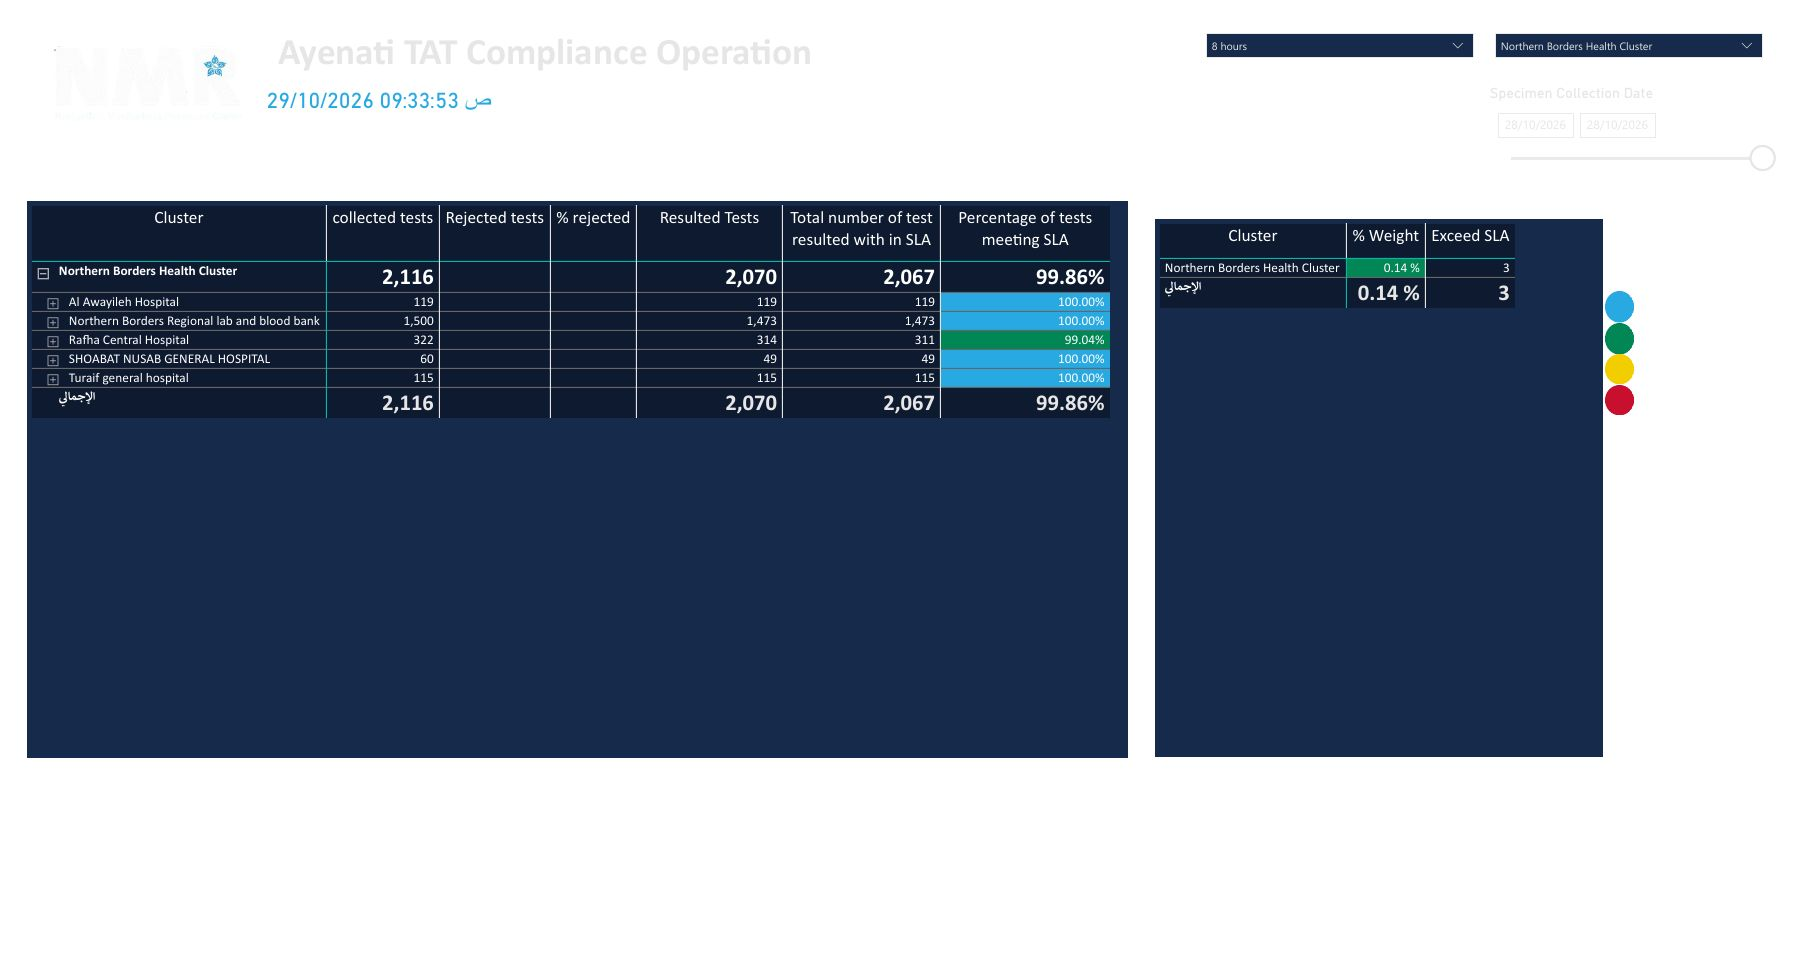
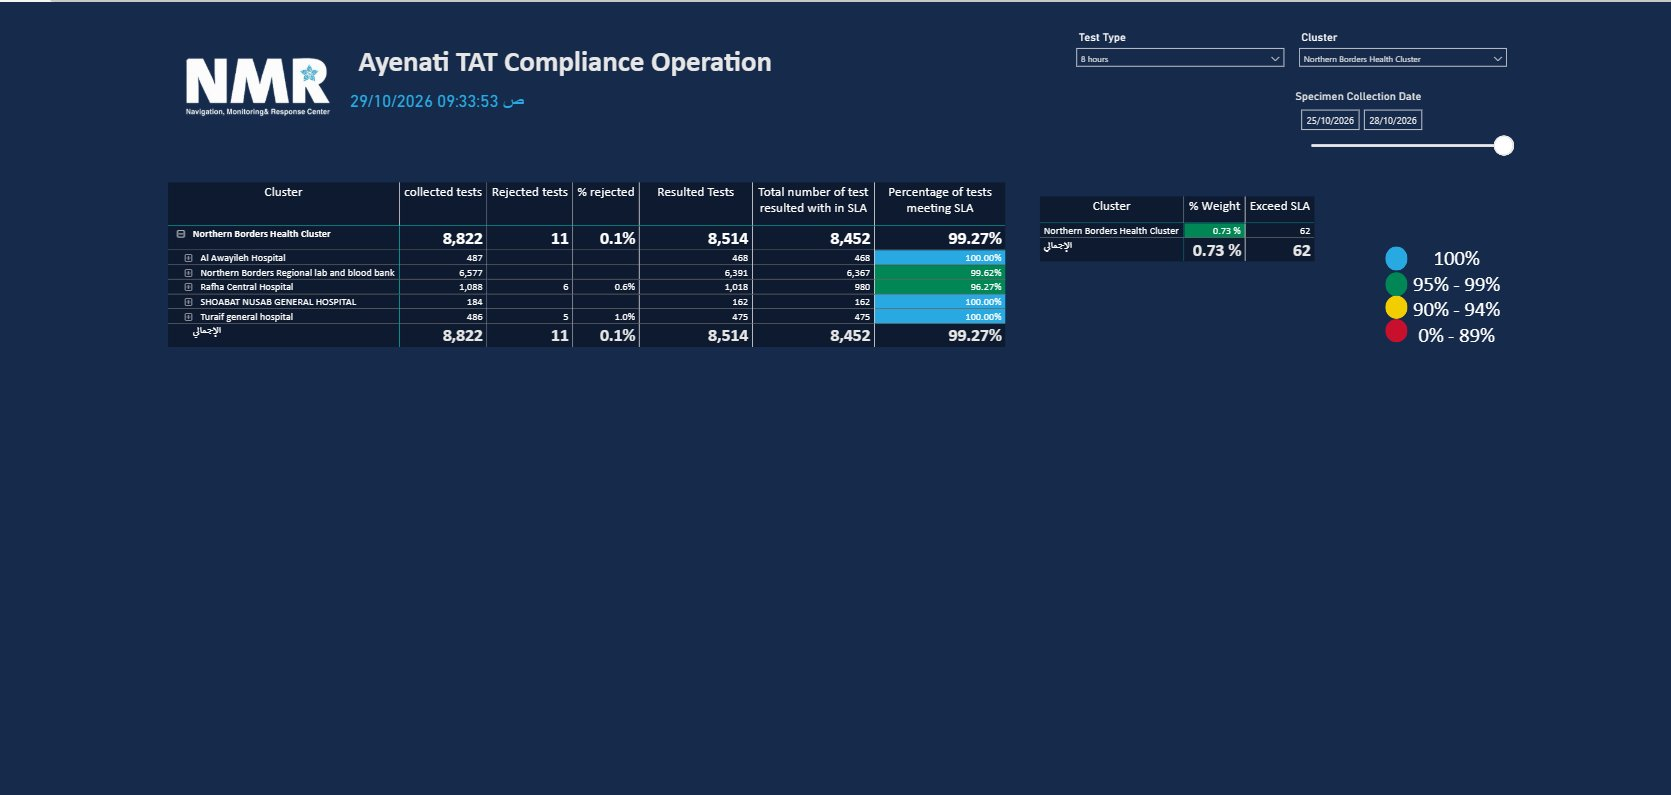
Ayenati: update to 25–28 Oct 2026 figures and refreshed report pages
Claude-Session: https://claude.ai/code/session_01Ga2zzVLDSwLrDu5nEND6nm

diff --git a/archive.html b/archive.html
@@ -2193,20 +2193,7 @@ function openNutritionMagazine(){
 }
 
 /* Labs: Ayenati (NMR) results & TAT compliance report — 8-hour tests, Northern Borders cluster */
-const AYENATI = {"asOf":"29 أكتوبر 2026","pdf":"reports/ayenati-2026-10-29.pdf",
- "pages":["images/ayenati-2026-10-29/p-1.jpg","images/ayenati-2026-10-29/p-2.jpg","images/ayenati-2026-10-29/p-3.jpg","images/ayenati-2026-10-29/p-4.jpg","images/ayenati-2026-10-29/p-5.jpg","images/ayenati-2026-10-29/p-6.jpg","images/ayenati-2026-10-29/p-7.jpg"],
- "pageTitles":["الامتثال في إصدار النتائج","الالتزام بوقت الإنجاز (TAT)","رحلة العينة بالتفصيل","اكتمال بيانات المراحل","فحوصات بدون نتائج","مستوى عمليات المختبرات (المملكة)","الإدخال اليدوي للنتائج"],
- "gauges":[{"l":"نسبة الفحوصات التي صدرت نتائجها","sub":"النتائج ÷ العينات المسحوبة","v":97.2},
-   {"l":"نتائج صدرت ضمن الوقت المستهدف (SLA)","sub":"ضمن SLA ÷ النتائج","v":98.9},
-   {"l":"نتائج وصلت لتطبيق صحتي","sub":"في صحتي ÷ النتائج","v":100}],
- "gDate":"27 أكتوبر 2026",
- "tat":{"date":"28 أكتوبر 2026","collected":2116,"resulted":2070,"inSla":2067,"rate":99.86,"over":3,
-  "rows":[{"f":"المختبر الإقليمي وبنك الدم","c":1500,"r":1473,"s":1473,"v":100},{"f":"مستشفى رفحاء العام","c":322,"r":314,"s":311,"v":99.04},
-   {"f":"مستشفى العويقيلة العام","c":119,"r":119,"s":119,"v":100},{"f":"مستشفى طريف العام","c":115,"r":115,"s":115,"v":100},{"f":"مستشفى الشعبة العام","c":60,"r":49,"s":49,"v":100}]},
- "journey":{"date":"25 – 28 أكتوبر 2026","collected":8822,"resulted":8525,"rate":96.6,"sehhaty":100,"avgTat":4.5,
-  "rows":[{"f":"المختبر الإقليمي وبنك الدم","c":6577,"r":6391,"v":97.2,"t":4},{"f":"مستشفى رفحاء العام","c":1088,"r":1024,"v":94.1,"t":5},
-   {"f":"مستشفى العويقيلة العام","c":487,"r":468,"v":96.1,"t":3},{"f":"مستشفى طريف العام","c":486,"r":480,"v":98.8,"t":4},{"f":"مستشفى الشعبة العام","c":184,"r":162,"v":88.0,"t":2}]},
- "noResult":{"total":46,"of":2116,"phc":33,"lab":13}};
+const AYENATI = {"asOf": "29 أكتوبر 2026", "pdf": "reports/ayenati-2026-10-29.pdf", "pages": ["images/ayenati-2026-10-29/p-1.jpg?v=2", "images/ayenati-2026-10-29/p-2.jpg?v=2", "images/ayenati-2026-10-29/p-3.jpg?v=2", "images/ayenati-2026-10-29/p-4.jpg?v=2", "images/ayenati-2026-10-29/p-5.jpg?v=2", "images/ayenati-2026-10-29/p-6.jpg", "images/ayenati-2026-10-29/p-7.jpg"], "pageTitles": ["الامتثال في إصدار النتائج", "الالتزام بوقت الإنجاز (TAT)", "رحلة العينة بالتفصيل", "اكتمال بيانات المراحل", "فحوصات بدون نتائج", "مستوى عمليات المختبرات (المملكة)", "الإدخال اليدوي للنتائج"], "gauges": [{"l": "نسبة الفحوصات التي صدرت نتائجها", "sub": "النتائج ÷ العينات المسحوبة", "v": 96.6}, {"l": "نتائج صدرت ضمن الوقت المستهدف (SLA)", "sub": "ضمن SLA ÷ النتائج", "v": 99.3}, {"l": "نتائج وصلت لتطبيق صحتي", "sub": "في صحتي ÷ النتائج", "v": 100}], "gDate": "25 – 28 أكتوبر 2026", "tat": {"date": "25 – 28 أكتوبر 2026", "collected": 8822, "rejected": 11, "resulted": 8514, "inSla": 8452, "rate": 99.27, "over": 62, "rows": [{"f": "المختبر الإقليمي وبنك الدم", "c": 6577, "r": 6391, "s": 6367, "v": 99.62}, {"f": "مستشفى رفحاء العام", "c": 1088, "r": 1018, "s": 980, "v": 96.27, "rej": 6}, {"f": "مستشفى العويقيلة العام", "c": 487, "r": 468, "s": 468, "v": 100}, {"f": "مستشفى طريف العام", "c": 486, "r": 475, "s": 475, "v": 100, "rej": 5}, {"f": "مستشفى الشعبة العام", "c": 184, "r": 162, "s": 162, "v": 100}]}, "journey": {"date": "24 – 28 أكتوبر 2026", "collected": 8822, "resulted": 8525, "rate": 96.6, "sehhaty": 100, "avgTat": 4.5, "rows": [{"f": "المختبر الإقليمي وبنك الدم", "c": 6577, "r": 6391, "v": 97.2, "t": 4}, {"f": "مستشفى رفحاء العام", "c": 1088, "r": 1024, "v": 94.1, "t": 5}, {"f": "مستشفى العويقيلة العام", "c": 487, "r": 468, "v": 96.1, "t": 3}, {"f": "مستشفى طريف العام", "c": 486, "r": 480, "v": 98.8, "t": 4}, {"f": "مستشفى الشعبة العام", "c": 184, "r": 162, "v": 88.0, "t": 2}]}, "noResult": {"total": 46, "of": 2116, "phc": 33, "lab": 13, "date": "28 أكتوبر 2026"}};
 
 function renderAyenatiCard(deptId){
   const a = AYENATI;
@@ -2225,20 +2212,20 @@ function renderAyenatiCard(deptId){
       <h3>${iconBadge("🧪","badge-blue")} مؤشرات منصة عيّناتي — فحوصات الـ8 ساعات</h3>
       <p class="ay-sub">تقرير منصة عيّناتي (NMR) لتجمع الحدود الشمالية الصحي · تاريخ التقرير: ${escapeHtml(a.asOf)}</p>
       <div class="ay-gauges">${a.gauges.map(gauge).join('')}</div>
-      <div class="ay-cap">نتائج يوم ${escapeHtml(a.gDate)}</div>
+      <div class="ay-cap">فترة جمع العينات: ${escapeHtml(a.gDate)}</div>
 
       <div class="ay-grid">
         <div class="ay-box">
           <div class="ay-h">⏱ الالتزام بوقت الإنجاز (SLA) <small>${escapeHtml(a.tat.date)}</small></div>
           <div class="ay-kpis">
             <div><b>${n(a.tat.collected)}</b><span>عينة مسحوبة</span></div>
-            <div><b>${n(a.tat.resulted)}</b><span>نتيجة صادرة</span></div>
+            <div><b>${n(a.tat.resulted)}</b><span>نتيجة صادرة${a.tat.rejected ? ` · ${a.tat.rejected} مرفوضة` : ''}</span></div>
             <div class="ay-hl ay-${band(a.tat.rate)}"><b>${pct(a.tat.rate)}</b><span>ضمن الوقت المستهدف</span></div>
             <div class="ay-warn"><b>${a.tat.over}</b><span>تجاوزت الوقت</span></div>
           </div>
           ${a.tat.rows.map(r => `
             <div class="ay-row ay-${band(r.v)}">
-              <span class="ay-f">${escapeHtml(r.f)}<small>${n(r.c)} عينة · ${n(r.r)} نتيجة</small></span>
+              <span class="ay-f">${escapeHtml(r.f)}<small>${n(r.c)} عينة · ${n(r.r)} نتيجة${r.rej ? ` · ${r.rej} مرفوضة` : ''}</small></span>
               <div class="ay-track"><i style="width:${r.v}%"></i></div>
               <b class="ay-v">${pct(r.v)}</b>
             </div>`).join('')}
@@ -2262,7 +2249,7 @@ function renderAyenatiCard(deptId){
 
       <div class="ay-nores">
         <span class="ay-nores-n">${a.noResult.total}</span>
-        <span>فحصًا بدون نتيجة من أصل ${n(a.noResult.of)} (${pct(Math.round(a.noResult.total / a.noResult.of * 1000) / 10)})</span>
+        <span>فحصًا بدون نتيجة${a.noResult.date ? ` (${escapeHtml(a.noResult.date)})` : ''} من أصل ${n(a.noResult.of)} (${pct(Math.round(a.noResult.total / a.noResult.of * 1000) / 10)})</span>
         <span class="ay-chip">⏳ بانتظار المراكز الصحية: ${a.noResult.phc}</span>
         <span class="ay-chip">🧪 بانتظار المختبرات: ${a.noResult.lab}</span>
       </div>

diff --git a/dept.html b/dept.html
@@ -2332,20 +2332,7 @@ function openNutritionMagazine(){
 }
 
 /* Labs: Ayenati (NMR) results & TAT compliance report — 8-hour tests, Northern Borders cluster */
-const AYENATI = {"asOf":"29 أكتوبر 2026","pdf":"reports/ayenati-2026-10-29.pdf",
- "pages":["images/ayenati-2026-10-29/p-1.jpg","images/ayenati-2026-10-29/p-2.jpg","images/ayenati-2026-10-29/p-3.jpg","images/ayenati-2026-10-29/p-4.jpg","images/ayenati-2026-10-29/p-5.jpg","images/ayenati-2026-10-29/p-6.jpg","images/ayenati-2026-10-29/p-7.jpg"],
- "pageTitles":["الامتثال في إصدار النتائج","الالتزام بوقت الإنجاز (TAT)","رحلة العينة بالتفصيل","اكتمال بيانات المراحل","فحوصات بدون نتائج","مستوى عمليات المختبرات (المملكة)","الإدخال اليدوي للنتائج"],
- "gauges":[{"l":"نسبة الفحوصات التي صدرت نتائجها","sub":"النتائج ÷ العينات المسحوبة","v":97.2},
-   {"l":"نتائج صدرت ضمن الوقت المستهدف (SLA)","sub":"ضمن SLA ÷ النتائج","v":98.9},
-   {"l":"نتائج وصلت لتطبيق صحتي","sub":"في صحتي ÷ النتائج","v":100}],
- "gDate":"27 أكتوبر 2026",
- "tat":{"date":"28 أكتوبر 2026","collected":2116,"resulted":2070,"inSla":2067,"rate":99.86,"over":3,
-  "rows":[{"f":"المختبر الإقليمي وبنك الدم","c":1500,"r":1473,"s":1473,"v":100},{"f":"مستشفى رفحاء العام","c":322,"r":314,"s":311,"v":99.04},
-   {"f":"مستشفى العويقيلة العام","c":119,"r":119,"s":119,"v":100},{"f":"مستشفى طريف العام","c":115,"r":115,"s":115,"v":100},{"f":"مستشفى الشعبة العام","c":60,"r":49,"s":49,"v":100}]},
- "journey":{"date":"25 – 28 أكتوبر 2026","collected":8822,"resulted":8525,"rate":96.6,"sehhaty":100,"avgTat":4.5,
-  "rows":[{"f":"المختبر الإقليمي وبنك الدم","c":6577,"r":6391,"v":97.2,"t":4},{"f":"مستشفى رفحاء العام","c":1088,"r":1024,"v":94.1,"t":5},
-   {"f":"مستشفى العويقيلة العام","c":487,"r":468,"v":96.1,"t":3},{"f":"مستشفى طريف العام","c":486,"r":480,"v":98.8,"t":4},{"f":"مستشفى الشعبة العام","c":184,"r":162,"v":88.0,"t":2}]},
- "noResult":{"total":46,"of":2116,"phc":33,"lab":13}};
+const AYENATI = {"asOf": "29 أكتوبر 2026", "pdf": "reports/ayenati-2026-10-29.pdf", "pages": ["images/ayenati-2026-10-29/p-1.jpg?v=2", "images/ayenati-2026-10-29/p-2.jpg?v=2", "images/ayenati-2026-10-29/p-3.jpg?v=2", "images/ayenati-2026-10-29/p-4.jpg?v=2", "images/ayenati-2026-10-29/p-5.jpg?v=2", "images/ayenati-2026-10-29/p-6.jpg", "images/ayenati-2026-10-29/p-7.jpg"], "pageTitles": ["الامتثال في إصدار النتائج", "الالتزام بوقت الإنجاز (TAT)", "رحلة العينة بالتفصيل", "اكتمال بيانات المراحل", "فحوصات بدون نتائج", "مستوى عمليات المختبرات (المملكة)", "الإدخال اليدوي للنتائج"], "gauges": [{"l": "نسبة الفحوصات التي صدرت نتائجها", "sub": "النتائج ÷ العينات المسحوبة", "v": 96.6}, {"l": "نتائج صدرت ضمن الوقت المستهدف (SLA)", "sub": "ضمن SLA ÷ النتائج", "v": 99.3}, {"l": "نتائج وصلت لتطبيق صحتي", "sub": "في صحتي ÷ النتائج", "v": 100}], "gDate": "25 – 28 أكتوبر 2026", "tat": {"date": "25 – 28 أكتوبر 2026", "collected": 8822, "rejected": 11, "resulted": 8514, "inSla": 8452, "rate": 99.27, "over": 62, "rows": [{"f": "المختبر الإقليمي وبنك الدم", "c": 6577, "r": 6391, "s": 6367, "v": 99.62}, {"f": "مستشفى رفحاء العام", "c": 1088, "r": 1018, "s": 980, "v": 96.27, "rej": 6}, {"f": "مستشفى العويقيلة العام", "c": 487, "r": 468, "s": 468, "v": 100}, {"f": "مستشفى طريف العام", "c": 486, "r": 475, "s": 475, "v": 100, "rej": 5}, {"f": "مستشفى الشعبة العام", "c": 184, "r": 162, "s": 162, "v": 100}]}, "journey": {"date": "24 – 28 أكتوبر 2026", "collected": 8822, "resulted": 8525, "rate": 96.6, "sehhaty": 100, "avgTat": 4.5, "rows": [{"f": "المختبر الإقليمي وبنك الدم", "c": 6577, "r": 6391, "v": 97.2, "t": 4}, {"f": "مستشفى رفحاء العام", "c": 1088, "r": 1024, "v": 94.1, "t": 5}, {"f": "مستشفى العويقيلة العام", "c": 487, "r": 468, "v": 96.1, "t": 3}, {"f": "مستشفى طريف العام", "c": 486, "r": 480, "v": 98.8, "t": 4}, {"f": "مستشفى الشعبة العام", "c": 184, "r": 162, "v": 88.0, "t": 2}]}, "noResult": {"total": 46, "of": 2116, "phc": 33, "lab": 13, "date": "28 أكتوبر 2026"}};
 
 function renderAyenatiCard(deptId){
   const a = AYENATI;
@@ -2364,20 +2351,20 @@ function renderAyenatiCard(deptId){
       <h3>${iconBadge("🧪","badge-blue")} مؤشرات منصة عيّناتي — فحوصات الـ8 ساعات</h3>
       <p class="ay-sub">تقرير منصة عيّناتي (NMR) لتجمع الحدود الشمالية الصحي · تاريخ التقرير: ${escapeHtml(a.asOf)}</p>
       <div class="ay-gauges">${a.gauges.map(gauge).join('')}</div>
-      <div class="ay-cap">نتائج يوم ${escapeHtml(a.gDate)}</div>
+      <div class="ay-cap">فترة جمع العينات: ${escapeHtml(a.gDate)}</div>
 
       <div class="ay-grid">
         <div class="ay-box">
           <div class="ay-h">⏱ الالتزام بوقت الإنجاز (SLA) <small>${escapeHtml(a.tat.date)}</small></div>
           <div class="ay-kpis">
             <div><b>${n(a.tat.collected)}</b><span>عينة مسحوبة</span></div>
-            <div><b>${n(a.tat.resulted)}</b><span>نتيجة صادرة</span></div>
+            <div><b>${n(a.tat.resulted)}</b><span>نتيجة صادرة${a.tat.rejected ? ` · ${a.tat.rejected} مرفوضة` : ''}</span></div>
             <div class="ay-hl ay-${band(a.tat.rate)}"><b>${pct(a.tat.rate)}</b><span>ضمن الوقت المستهدف</span></div>
             <div class="ay-warn"><b>${a.tat.over}</b><span>تجاوزت الوقت</span></div>
           </div>
           ${a.tat.rows.map(r => `
             <div class="ay-row ay-${band(r.v)}">
-              <span class="ay-f">${escapeHtml(r.f)}<small>${n(r.c)} عينة · ${n(r.r)} نتيجة</small></span>
+              <span class="ay-f">${escapeHtml(r.f)}<small>${n(r.c)} عينة · ${n(r.r)} نتيجة${r.rej ? ` · ${r.rej} مرفوضة` : ''}</small></span>
               <div class="ay-track"><i style="width:${r.v}%"></i></div>
               <b class="ay-v">${pct(r.v)}</b>
             </div>`).join('')}
@@ -2401,7 +2388,7 @@ function renderAyenatiCard(deptId){
 
       <div class="ay-nores">
         <span class="ay-nores-n">${a.noResult.total}</span>
-        <span>فحصًا بدون نتيجة من أصل ${n(a.noResult.of)} (${pct(Math.round(a.noResult.total / a.noResult.of * 1000) / 10)})</span>
+        <span>فحصًا بدون نتيجة${a.noResult.date ? ` (${escapeHtml(a.noResult.date)})` : ''} من أصل ${n(a.noResult.of)} (${pct(Math.round(a.noResult.total / a.noResult.of * 1000) / 10)})</span>
         <span class="ay-chip">⏳ بانتظار المراكز الصحية: ${a.noResult.phc}</span>
         <span class="ay-chip">🧪 بانتظار المختبرات: ${a.noResult.lab}</span>
       </div>
